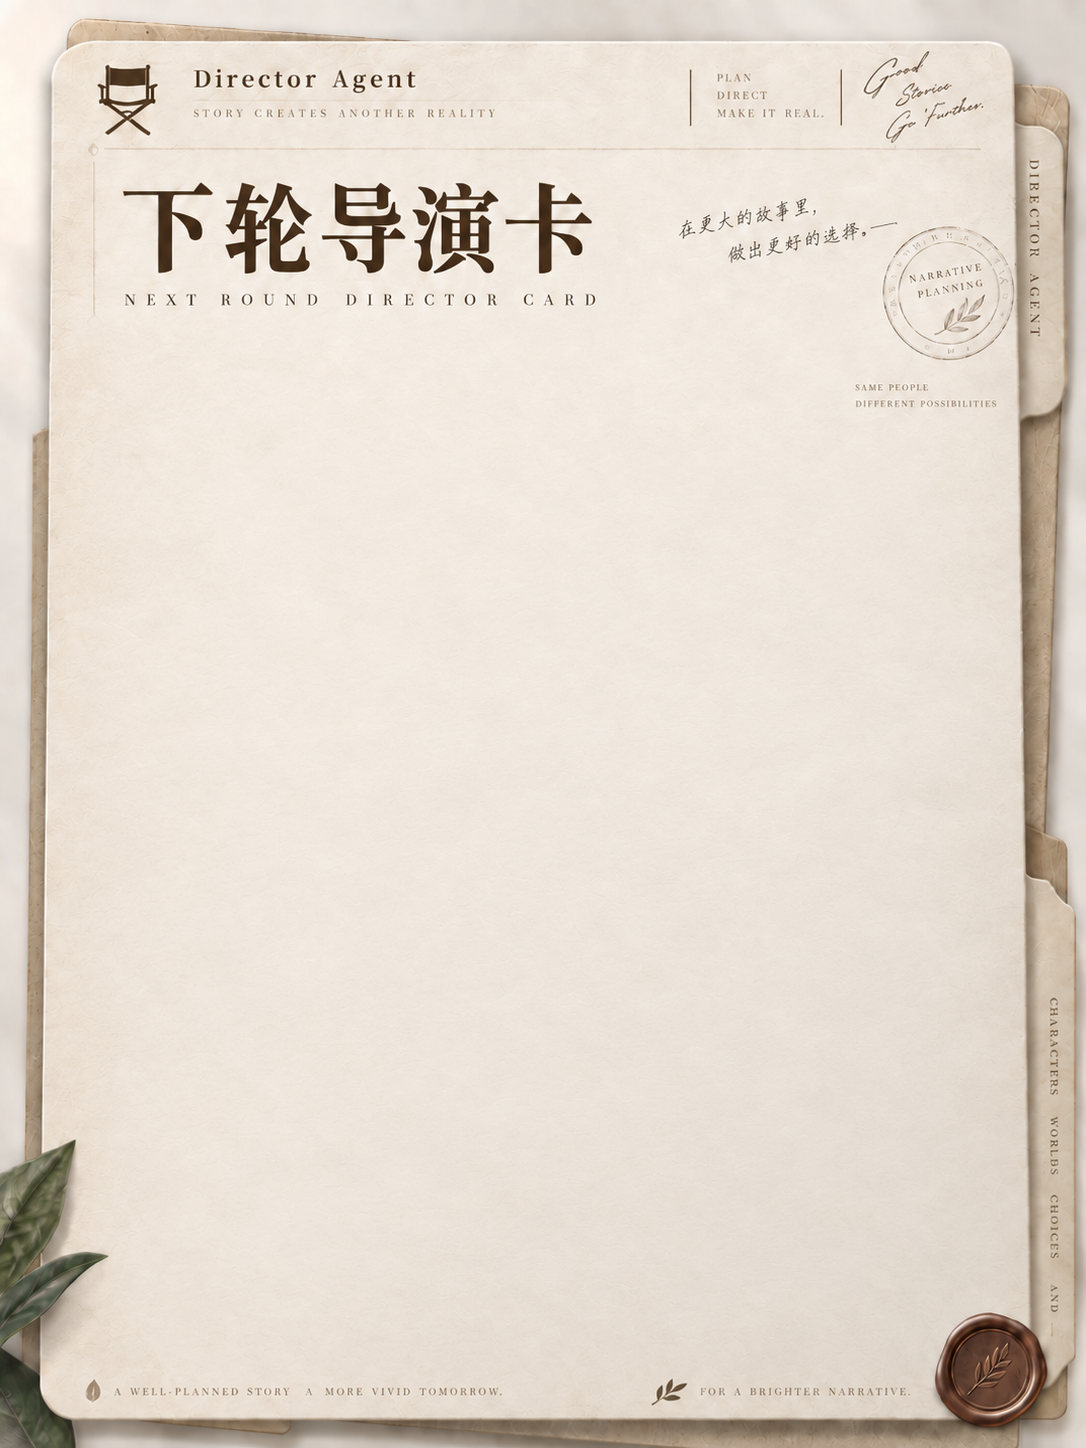
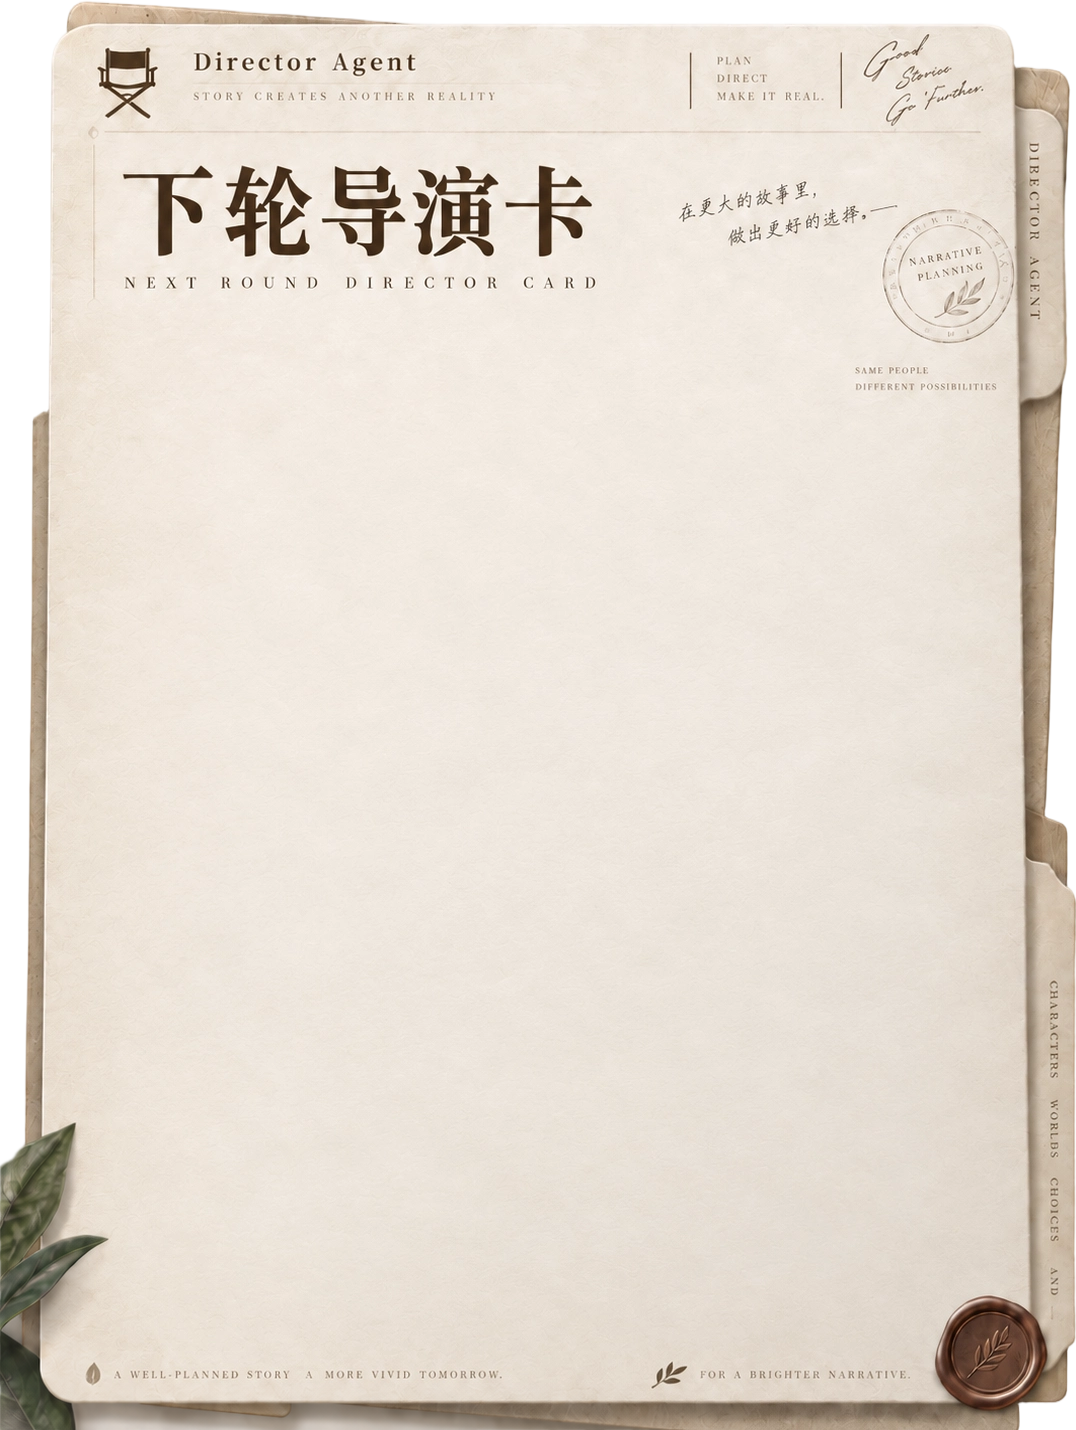
优化导演卡透明背景与重新规划入口

diff --git a/styles/memory.css b/styles/memory.css
@@ -505,7 +505,7 @@
 }
 
 #yzm-memory-root .yzm-top-story-director:disabled,
-#yzm-memory-root .yzm-top-story-director-loading {
+#yzm-memory-root .yzm-story-director-loading {
     cursor: wait;
     opacity: 0.62;
 }
@@ -3755,7 +3755,7 @@
 }
 
 #yzm-memory-global-modal-root .yzm-story-director-error-retry:disabled,
-#yzm-memory-global-modal-root .yzm-story-director-error-retry.yzm-top-story-director-loading {
+#yzm-memory-global-modal-root .yzm-story-director-error-retry.yzm-story-director-loading {
     cursor: wait;
     opacity: 0.62;
 }
@@ -12136,22 +12136,30 @@
 
 #yzm-memory-global-modal-root .yzm-story-director-card-sheet {
     position: relative;
-    width: min(760px, calc(100vw - 28px), calc((100dvh - 28px) * 0.75));
+    width: min(760px, calc(100vw - 28px), calc((100dvh - 28px) * 0.75245));
     max-width: 100%;
     max-height: 100%;
-    aspect-ratio: 1086 / 1448;
+    aspect-ratio: 1076 / 1430;
     margin: auto;
-    overflow: hidden;
+    overflow: visible;
     color: #3e2e21;
-    background-image: url("../ui/dykbj.png");
-    background-position: center;
-    background-repeat: no-repeat;
-    background-size: 100% 100%;
+    background: transparent;
     border: 0;
-    border-radius: 6px;
-    box-shadow: 0 24px 70px rgba(31, 21, 13, 0.42);
+    border-radius: 0;
+    box-shadow: none;
     box-sizing: border-box;
+    isolation: isolate;
     pointer-events: auto;
+}
+
+#yzm-memory-global-modal-root .yzm-story-director-card-sheet::before {
+    position: absolute;
+    inset: 0;
+    z-index: 0;
+    content: "";
+    background: url("../ui/dykbj.png") center / contain no-repeat;
+    filter: drop-shadow(0 20px 28px rgba(31, 21, 13, 0.38));
+    pointer-events: none;
 }
 
 #yzm-memory-global-modal-root .yzm-story-director-card-close {
@@ -12187,9 +12195,10 @@
 
 #yzm-memory-global-modal-root .yzm-story-director-card-content {
     position: absolute;
+    z-index: 1;
     top: 28.5%;
     right: 10.5%;
-    bottom: 9.5%;
+    bottom: 10.5%;
     left: 10.5%;
     min-width: 0;
     min-height: 0;
@@ -12229,6 +12238,45 @@
     text-align: center;
 }
 
+#yzm-memory-global-modal-root .yzm-story-director-card-replan {
+    position: absolute;
+    right: 50%;
+    bottom: 5.2%;
+    z-index: 3;
+    display: inline-flex;
+    align-items: center;
+    justify-content: center;
+    width: 38px;
+    height: 38px;
+    padding: 0;
+    color: #66503d;
+    background: rgba(248, 242, 230, 0.64);
+    border: 1px solid rgba(96, 70, 49, 0.2);
+    border-radius: 8px;
+    box-shadow: 0 4px 12px rgba(75, 51, 33, 0.1);
+    box-sizing: border-box;
+    cursor: pointer;
+    font: inherit;
+    font-size: 17px;
+    line-height: 1;
+    touch-action: manipulation;
+    transform: translateX(50%);
+}
+
+#yzm-memory-global-modal-root .yzm-story-director-card-replan:hover,
+#yzm-memory-global-modal-root .yzm-story-director-card-replan:focus-visible {
+    color: #2e2118;
+    background: rgba(255, 252, 245, 0.94);
+    border-color: rgba(96, 70, 49, 0.38);
+    outline: 0;
+}
+
+#yzm-memory-global-modal-root .yzm-story-director-card-replan:disabled,
+#yzm-memory-global-modal-root .yzm-story-director-card-replan.yzm-story-director-loading {
+    cursor: wait;
+    opacity: 0.62;
+}
+
 @media (max-width: 760px) {
     #yzm-memory-global-modal-root.yzm-story-director-card-host-open {
         position: fixed !important;
@@ -12247,9 +12295,12 @@
     }
 
     #yzm-memory-global-modal-root .yzm-story-director-card-sheet {
-        width: min(calc(100vw - 8px), calc((100dvh - 8px) * 0.75));
+        width: min(calc(100vw - 8px), calc((100dvh - 8px) * 0.75245));
         max-height: calc(100dvh - 8px);
-        border-radius: 4px;
+    }
+
+    #yzm-memory-global-modal-root .yzm-story-director-card-sheet::before {
+        filter: drop-shadow(0 12px 18px rgba(31, 21, 13, 0.34));
     }
 
     #yzm-memory-global-modal-root .yzm-story-director-card-close {
@@ -12260,10 +12311,17 @@
 
     #yzm-memory-global-modal-root .yzm-story-director-card-content {
         right: 9.5%;
+        bottom: 12.5%;
         left: 9.5%;
         padding: 6px 8px 14px;
         font-size: 13px;
         line-height: 1.68;
+    }
+
+    #yzm-memory-global-modal-root .yzm-story-director-card-replan {
+        width: 34px;
+        height: 34px;
+        font-size: 15px;
     }
 }
 

diff --git a/ui/memory-window.js b/ui/memory-window.js
@@ -2849,13 +2849,34 @@
             : 'yzm-story-director-card-content yzm-story-director-card-empty';
         body.textContent = content || '当前导演卡尚未生成';
 
-        sheet.append(closeButton, body);
+        const replanButton = document.createElement('button');
+        replanButton.type = 'button';
+        replanButton.className = 'yzm-story-director-card-replan';
+        replanButton.title = '重新剧情规划';
+        replanButton.setAttribute('aria-label', replanButton.title);
+        replanButton.innerHTML = '<i class="fa-solid fa-clapperboard" aria-hidden="true"></i>';
+
+        const refreshCardContent = () => {
+            const latest = YuzukiMemory.StoryDirectorRuntime?.getCurrentDirectorCard?.();
+            const latestContent = String(latest?.content || '').trim();
+            body.classList.toggle('yzm-story-director-card-empty', !latestContent);
+            body.textContent = latestContent || '当前导演卡尚未生成';
+            body.scrollTop = 0;
+        };
+
+        sheet.append(closeButton, body, replanButton);
         overlay.appendChild(sheet);
         host.appendChild(overlay);
         host.classList.add('yzm-story-director-card-host-open');
         activeStoryDirectorCardWindow = { host, overlay, abortController };
 
         closeButton.addEventListener('click', closeStoryDirectorCard, { signal: abortController.signal });
+        replanButton.addEventListener('click', async (event) => {
+            event.preventDefault();
+            event.stopPropagation();
+            const result = await runManualStoryDirector(replanButton);
+            if (result?.success && body.isConnected) refreshCardContent();
+        }, { signal: abortController.signal });
         overlay.addEventListener('pointerdown', (event) => {
             if (event.target === overlay) closeStoryDirectorCard();
         }, { signal: abortController.signal });
@@ -3758,7 +3779,7 @@
         const originalIconClass = icon?.className || 'fa-solid fa-clapperboard';
         const originalLabel = label?.textContent || '剧情规划';
         button.disabled = true;
-        button.classList.add('yzm-top-story-director-loading');
+        button.classList.add('yzm-story-director-loading');
         button.setAttribute('aria-busy', 'true');
         if (icon) icon.className = 'fa-solid fa-spinner fa-spin';
         if (label) label.textContent = '规划中';
@@ -3771,7 +3792,7 @@
         } finally {
             if (button.isConnected) {
                 button.disabled = false;
-                button.classList.remove('yzm-top-story-director-loading');
+                button.classList.remove('yzm-story-director-loading');
                 button.removeAttribute('aria-busy');
             }
             if (icon?.isConnected) icon.className = originalIconClass;
